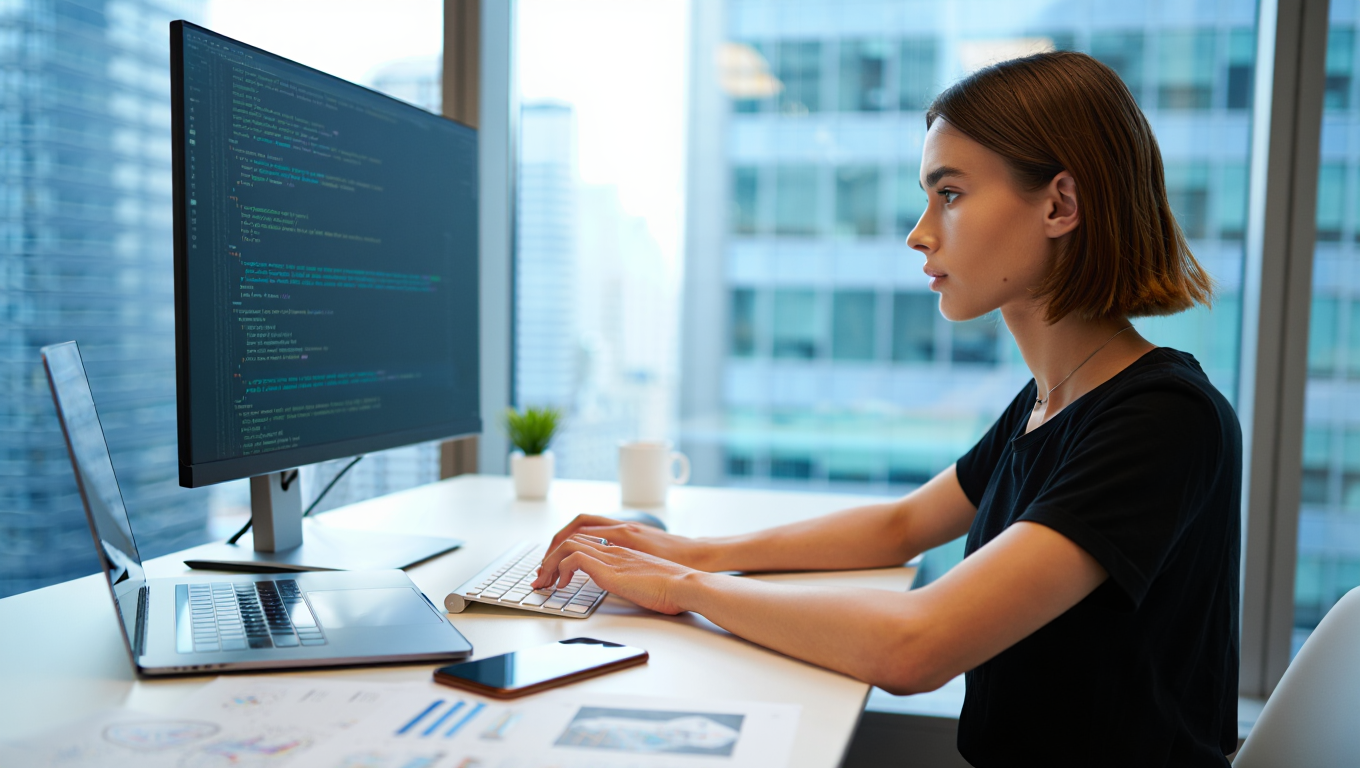
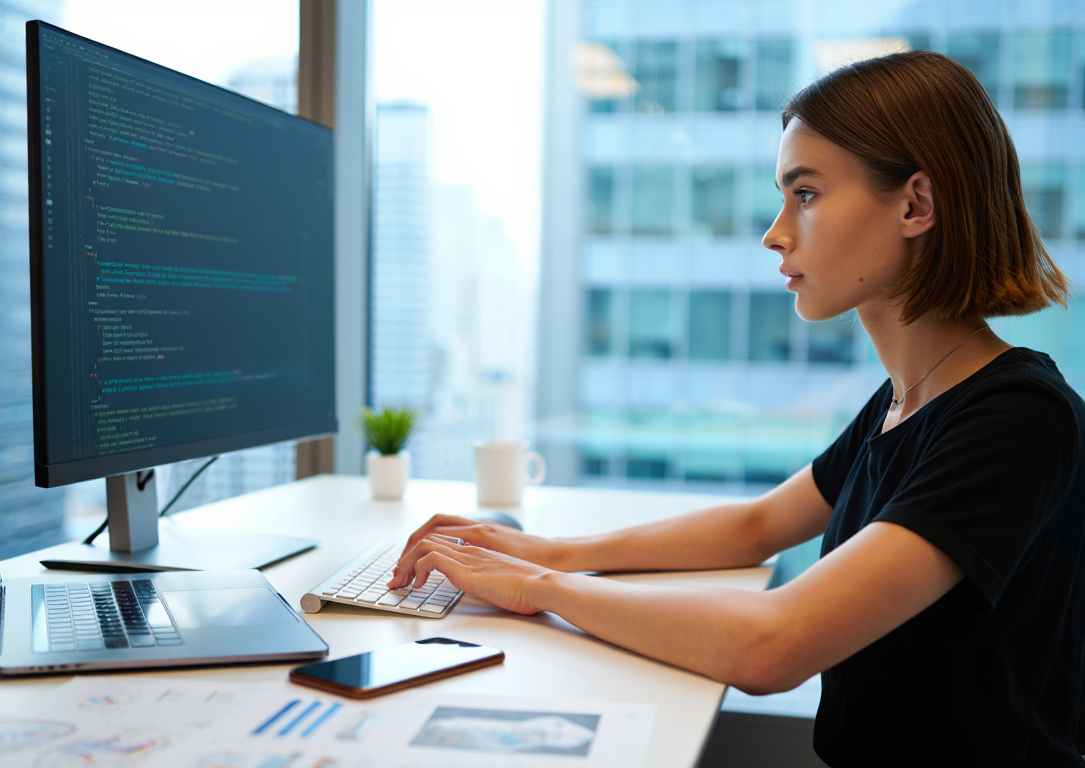
bug fixes

diff --git a/src/app/page.tsx b/src/app/page.tsx
@@ -278,8 +278,8 @@ export default function Home() {
             <WobbleCard containerClassName=" bg-emerald-900/90 min-h-[330px] 2xl:min-h-[400px] ">
               <div className="flex flex-col lg:flex-row gap-10 h-full items-center justify-center">
                 <div className="max-w-xs">
-                  <h2 className="text-left text-balance text-2xl md:text-2xl lg:text-3xl font-semibold tracking-[-0.015em] text-white">
-                    Innovation at its Best
+                  <h2 className="text-left text-balance text-2xl md:text-xl lg:text-2xl font-semibold tracking-[-0.015em] text-white">
+                    Innovation at Best
                   </h2>
                   <p className="mt-4 text-justify md:text-xs 2xl:text-sm  text-sm text-neutral-200">
                     Our team of tech individuals is driven by innovation,
@@ -290,14 +290,14 @@ export default function Home() {
                 <img
                   src={card1.src}
                   alt="linear demo image"
-                  className="w-60 2xl:w-80 grayscale filter object-contain rounded-2xl"
+                  className="w-60 2xl:w-75 grayscale filter object-contain rounded-2xl"
                 />
               </div>
             </WobbleCard>
             <WobbleCard containerClassName=" bg-[#0]  min-h-[330px] 2xl:min-h-[400px]">
               <div className="flex flex-col lg:flex-row gap-10 h-full items-center justify-center">
                 <div className="max-w-xs">
-                  <h2 className="text-left text-balance text-2xl md:text-2xl lg:text-3xl font-semibold tracking-[-0.015em] text-white">
+                  <h2 className="text-left text-balance text-2xl md:text-xl lg:text-2xl font-semibold tracking-[-0.015em] text-white">
                     Quality Matters
                   </h2>
                   <p className="mt-4 text-justify md:text-xs 2xl:text-sm  text-sm text-neutral-200">
@@ -309,16 +309,16 @@ export default function Home() {
                 <img
                   src={card2.src}
                   alt="linear demo image"
-                  className="w-60 2xl:w-80 grayscale filter  object-contain rounded-2xl"
+                  className="w-60 2xl:w-83   grayscale filter  object-contain rounded-2xl"
                 />
               </div>
             </WobbleCard>
           </div>
-          <div className="flex flex-col-reverse lg:flex-row-reverse justify-center items-center   px-10">
-            <WobbleCard containerClassName=" bg-[#005099] min-h-[330px] 2xl:min-h-[400px]  flex-1 ">
+          <div className="flex flex-col-reverse lg:flex-row-reverse justify-center items-center px-10">
+            <WobbleCard containerClassName=" bg-[#005099] min-h-[330px]   flex-1 ">
               <div className="flex flex-col lg:flex-row gap-7 2xl:gap-10 h-hull items-center justify-centerr">
                 <div className="max-w-xs">
-                  <h2 className="text-left text-balance text-2xl md:text-2xl 2xl:text-3xl font-semibold tracking-[-0.015em] text-white">
+                  <h2 className="text-left text-balance text-2xl md:text-xl 2xl:text-2xl font-semibold tracking-[-0.015em] text-white">
                     Our Promise
                   </h2>
                   <p className="mt-4 text-justify  text-sm md:text-xs 2xl:text-sm text-neutral-200">
@@ -331,7 +331,7 @@ export default function Home() {
                 <img
                   src={card3.src}
                   alt="linear demo image"
-                  className="w-60 2xl:w-80  grayscale filter  object-contain rounded-2xl"
+                  className="w-60 2xl:w-83  grayscale filter  object-contain rounded-2xl"
                 />
               </div>
             </WobbleCard>

diff --git a/src/app/products/page.tsx b/src/app/products/page.tsx
@@ -29,32 +29,27 @@ import Link from "next/link";
 const testimonials = [
   {
     quote:
-      "It was the best of times, it was the worst of times, it was the age of wisdom, it was the age of foolishness, it was the epoch of belief, it was the epoch of incredulity, it was the season of Light, it was the season of Darkness, it was the spring of hope, it was the winter of despair.",
-    name: "Charles Dickens",
-    title: "A Tale of Two Cities",
+      "We are delighted to discover a solution tailored for vendors supporting societies. This platform will streamline our daily operations, significantly enhancing efficiency and ease of management.",
+    name: "Iran",
+    title: "Society Vendor",
   },
   {
     quote:
-      "To be, or not to be, that is the question: Whether 'tis nobler in the mind to suffer The slings and arrows of outrageous fortune, Or to take Arms against a Sea of troubles, And by opposing end them: to die, to sleep.",
-    name: "William Shakespeare",
-    title: "Hamlet",
-  },
-  {
-    quote: "All that we see or seem is but a dream within a dream.",
-    name: "Edgar Allan Poe",
-    title: "A Dream Within a Dream",
+      "This platform will elevate our business by connecting us with customers across multiple societies within a single application, fostering increased demand and growth.",
+    name: "Navin",
+    title: "Car PPF Vendor",
   },
   {
     quote:
-      "It is a truth universally acknowledged, that a single man in possession of a good fortune, must be in want of a wife.",
-    name: "Jane Austen",
-    title: "Pride and Prejudice",
+      "Managing our team of cleaners, providing timely customer updates, and tracking car details from start to finish will become seamless, greatly simplifying our operations.",
+    name: "Anil",
+    title: "Society Vendor",
   },
   {
     quote:
-      "Call me Ishmael. Some years ago—never mind how long precisely—having little or no money in my purse, and nothing particular to interest me on shore, I thought I would sail about a little and see the watery part of the world.",
-    name: "Herman Melville",
-    title: "Moby-Dick",
+      "Tracking payments and vehicle key handovers to vendors will be effortless, ensuring a smooth and hassle-free experience for residents like me”, Also Having one stop solution to all.",
+    name: "Aslam",
+    title: "Resident",
   },
 ];
 
